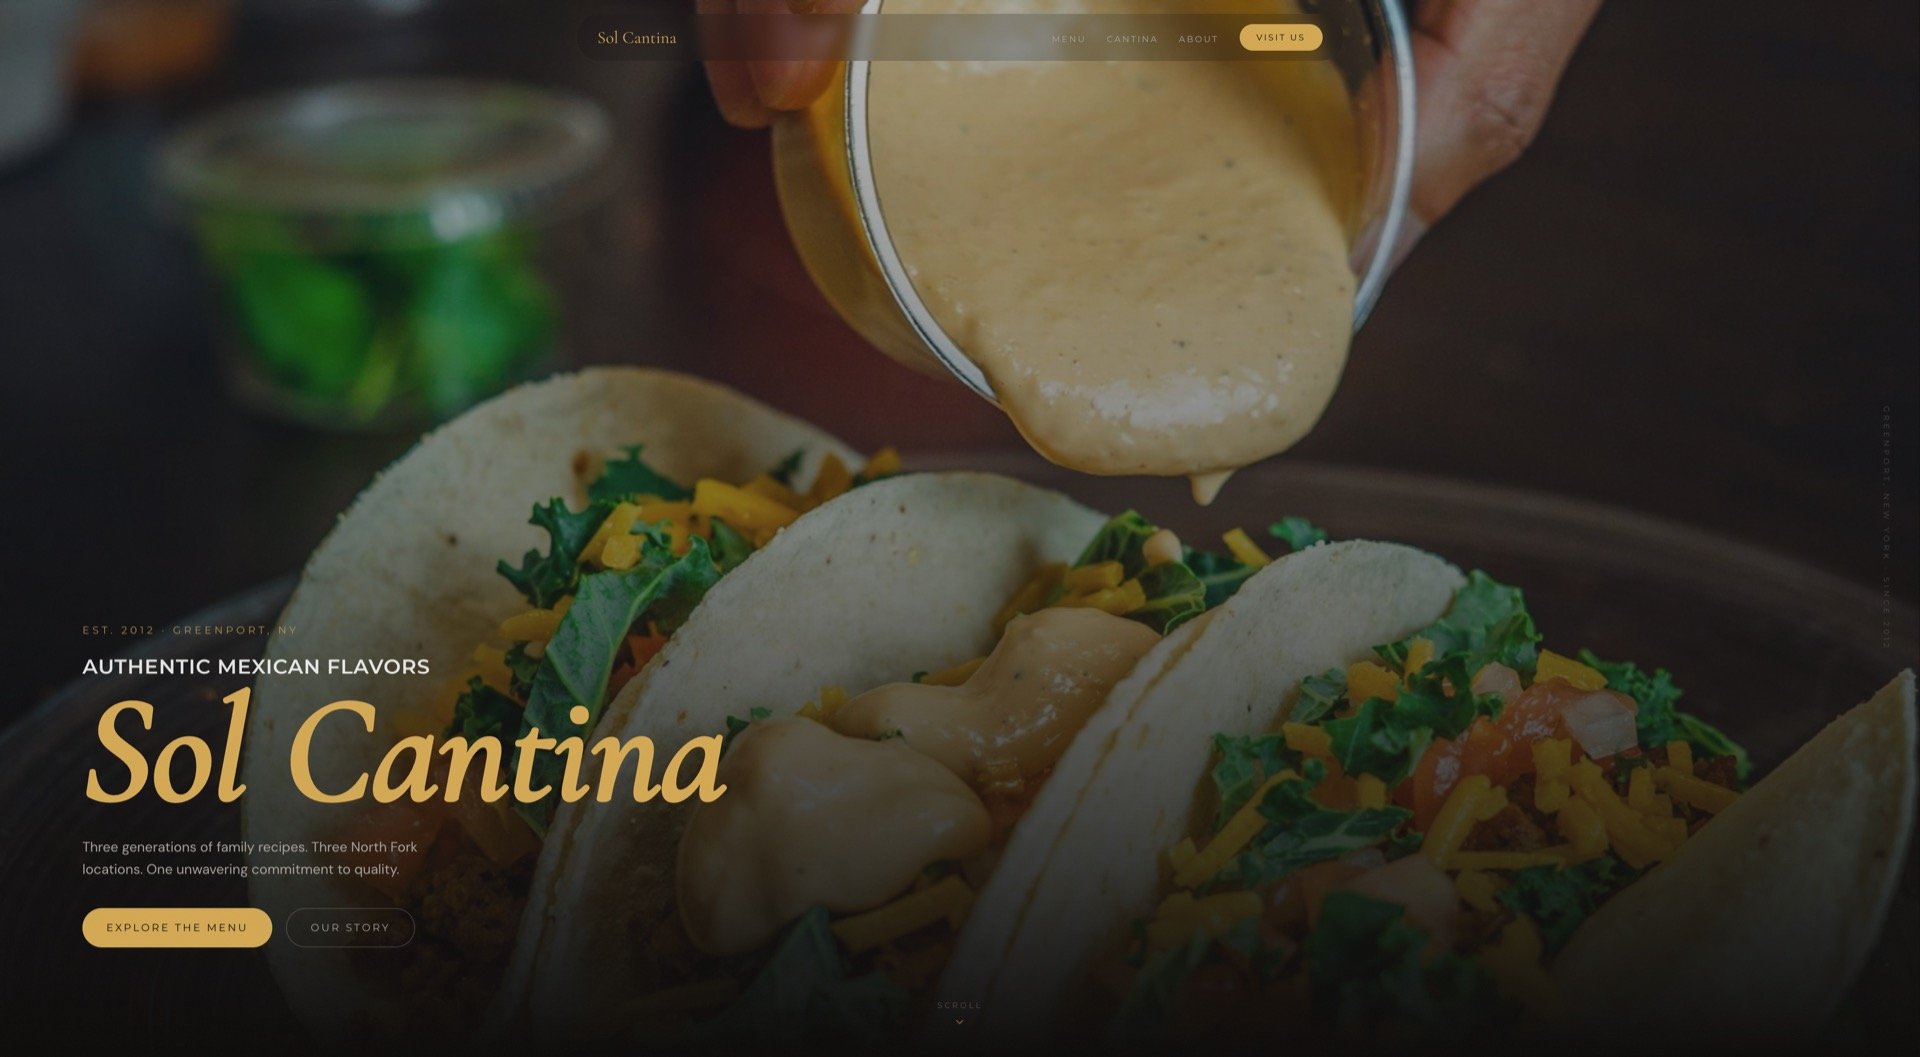
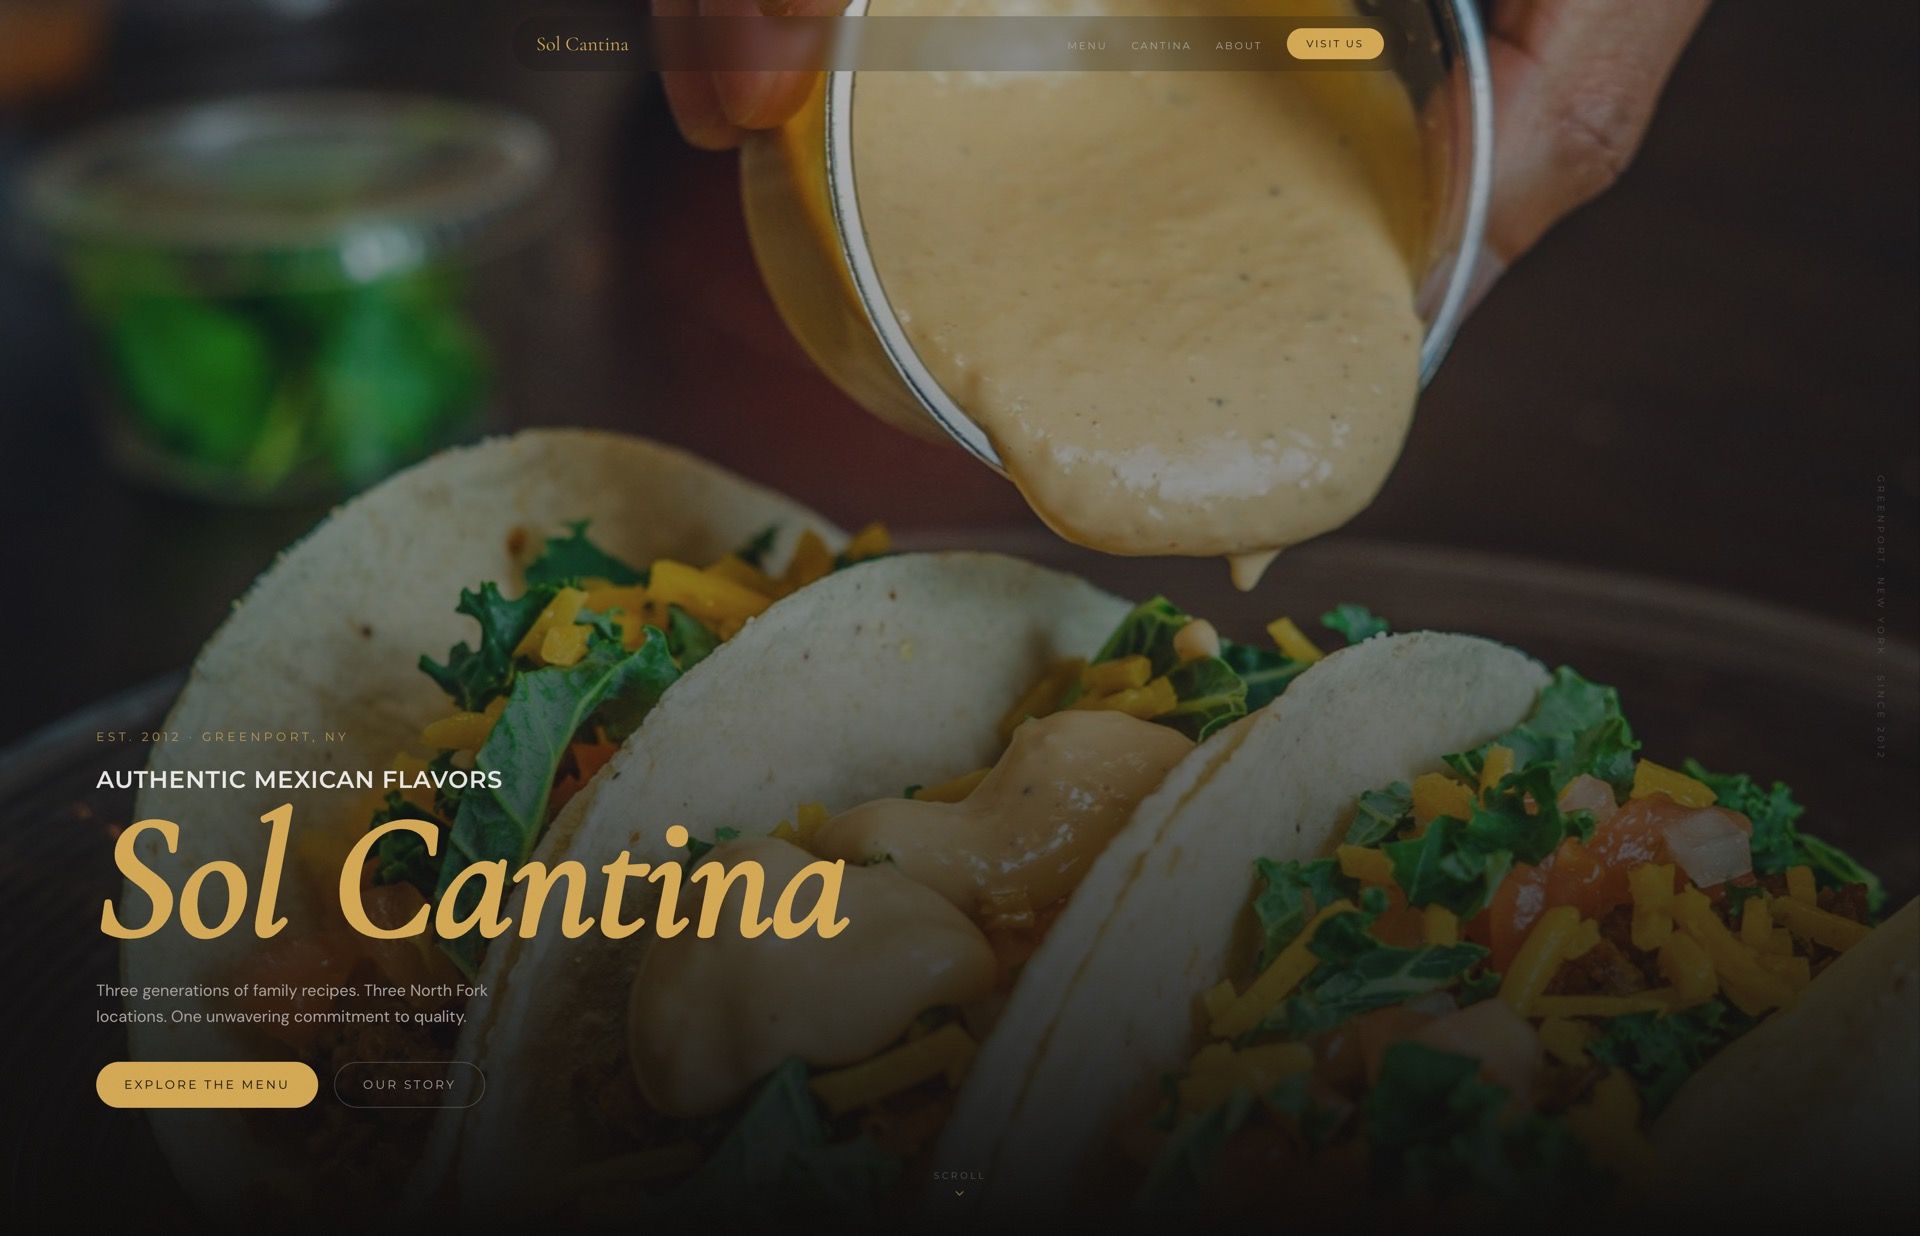
feat: add 5 new portfolio sites, replace all images with updated versions
New: Apex Detailing, Blackbird Ink, Cold Spring Junk Removal,
Iron Petal, United Sikhs. All 13 images re-converted from latest
source PNGs to compressed JPEGs with camelCase names. Portfolio
array updated to show 11 sites (excluding before/after pair).

diff --git a/src/pages/services/WebDesign.jsx b/src/pages/services/WebDesign.jsx
@@ -15,16 +15,16 @@ gsap.registerPlugin(ScrollTrigger);
 const service = services['web-design'];
 
 const portfolioSites = [
-  { src: '/images/portfolio/downtownFineline.jpg', alt: 'Iron Petal tattoo studio website', name: 'Iron Petal', desc: 'Premium tattoo studio in Beacon, NY' },
-  { src: '/images/portfolio/tlcDetailing.jpg', alt: 'Apex mobile detailing website', name: 'Apex Detailing', desc: 'Mobile ceramic coating and detailing' },
-  { src: '/images/portfolio/ranchoGrande.jpg', alt: 'Rancho Grande restaurant website', name: 'Sol Cantina', desc: 'Authentic Mexican restaurant' },
-  { src: '/images/portfolio/society9Tattoo.jpg', alt: 'Blackbird Ink tattoo studio website', name: 'Blackbird Ink', desc: 'Award-winning tattoo and salon studio' },
-  { src: '/images/portfolio/scorpionJunkRemoval.jpg', alt: 'Scorpion Junk Removal website', name: 'Scorpion Junk Removal', desc: 'Local junk hauling and cleanouts' },
-  { src: '/images/portfolio/unitedSikhs.jpg', alt: 'United Sikhs nonprofit website', name: 'United Sikhs', desc: 'Global humanitarian nonprofit' },
-  { src: '/images/portfolio/caplanCommunications.jpg', alt: 'Caplan Communications website', name: 'Caplan Communications', desc: 'Strategic PR and communications' },
+  { src: '/images/portfolio/apexDetailing.jpg', alt: 'Apex Detailing website', name: 'Apex Detailing', desc: 'Mobile auto detailing and ceramic coating' },
+  { src: '/images/portfolio/solCantina.jpg', alt: 'Sol Cantina restaurant website', name: 'Sol Cantina', desc: 'Authentic Mexican restaurant' },
+  { src: '/images/portfolio/blackbirdInk.jpg', alt: 'Blackbird Ink website', name: 'Blackbird Ink', desc: 'Tattoo and salon studio' },
+  { src: '/images/portfolio/caplanCommunications.jpg', alt: 'Caplan Communications website', name: 'Caplan Communications', desc: 'Strategic PR and communications firm' },
+  { src: '/images/portfolio/coldSpringJunkRemoval.jpg', alt: 'Cold Spring Junk Removal website', name: 'Cold Spring Junk Removal', desc: 'Local junk removal service' },
+  { src: '/images/portfolio/ironPetal.jpg', alt: 'Iron Petal website', name: 'Iron Petal', desc: 'Modern tattoo studio in New York' },
   { src: '/images/portfolio/owlOutreach.jpg', alt: 'Owl Outreach website', name: 'Owl Outreach', desc: 'B2B cold email outbound studio' },
-  { src: '/images/portfolio/46goat.jpg', alt: '46GOAT e-commerce website', name: '46GOAT', desc: 'Urban fashion e-commerce' },
+  { src: '/images/portfolio/46goat.jpg', alt: '46GOAT e-commerce website', name: '46GOAT', desc: 'Urban fashion e-commerce brand' },
   { src: '/images/portfolio/nexusRoasters.jpg', alt: 'Nexus Roasters website', name: 'Nexus Roasters', desc: 'Artisan coffee roasters' },
+  { src: '/images/portfolio/unitedSikhs.jpg', alt: 'United Sikhs website', name: 'United Sikhs', desc: 'Global humanitarian nonprofit' },
   { src: '/images/portfolio/freedomDrivers.jpg', alt: 'Freedom Drivers website', name: 'Freedom Drivers', desc: 'Commercial driver advocacy nonprofit' },
 ];
 